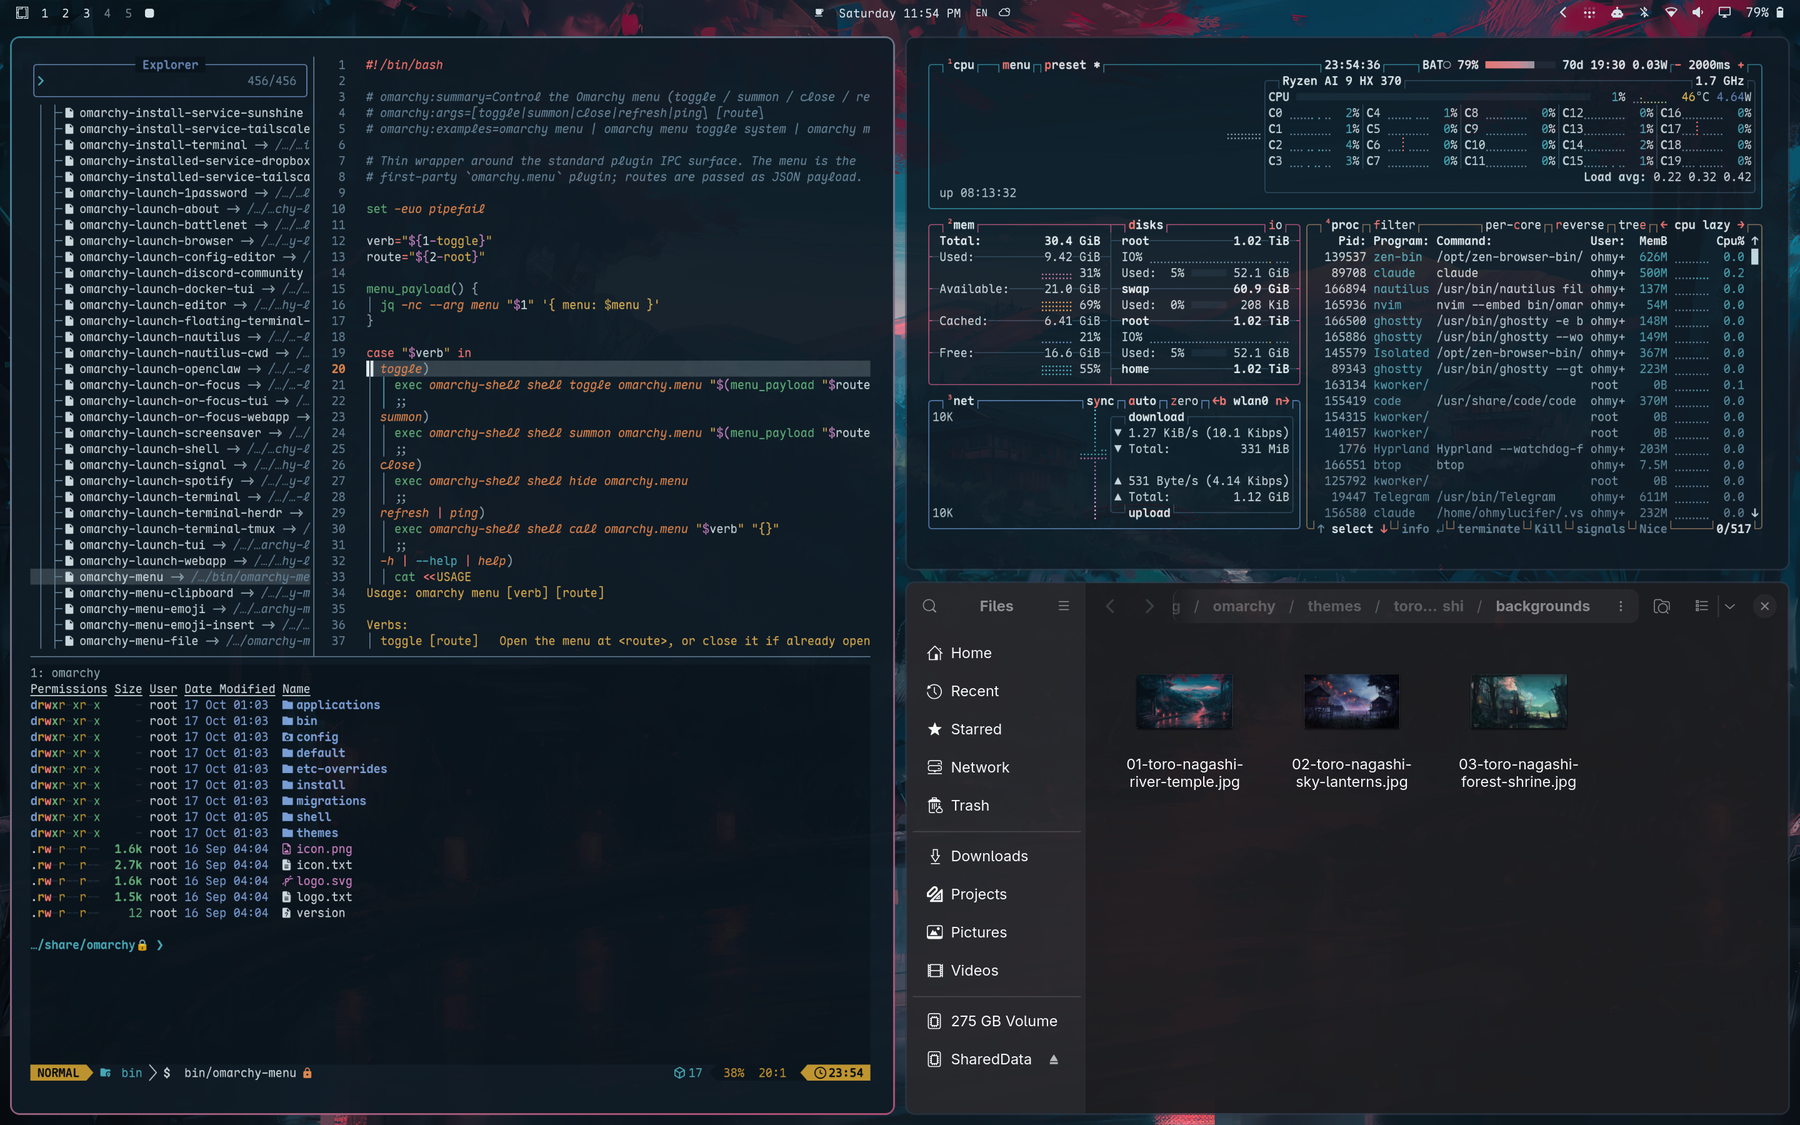
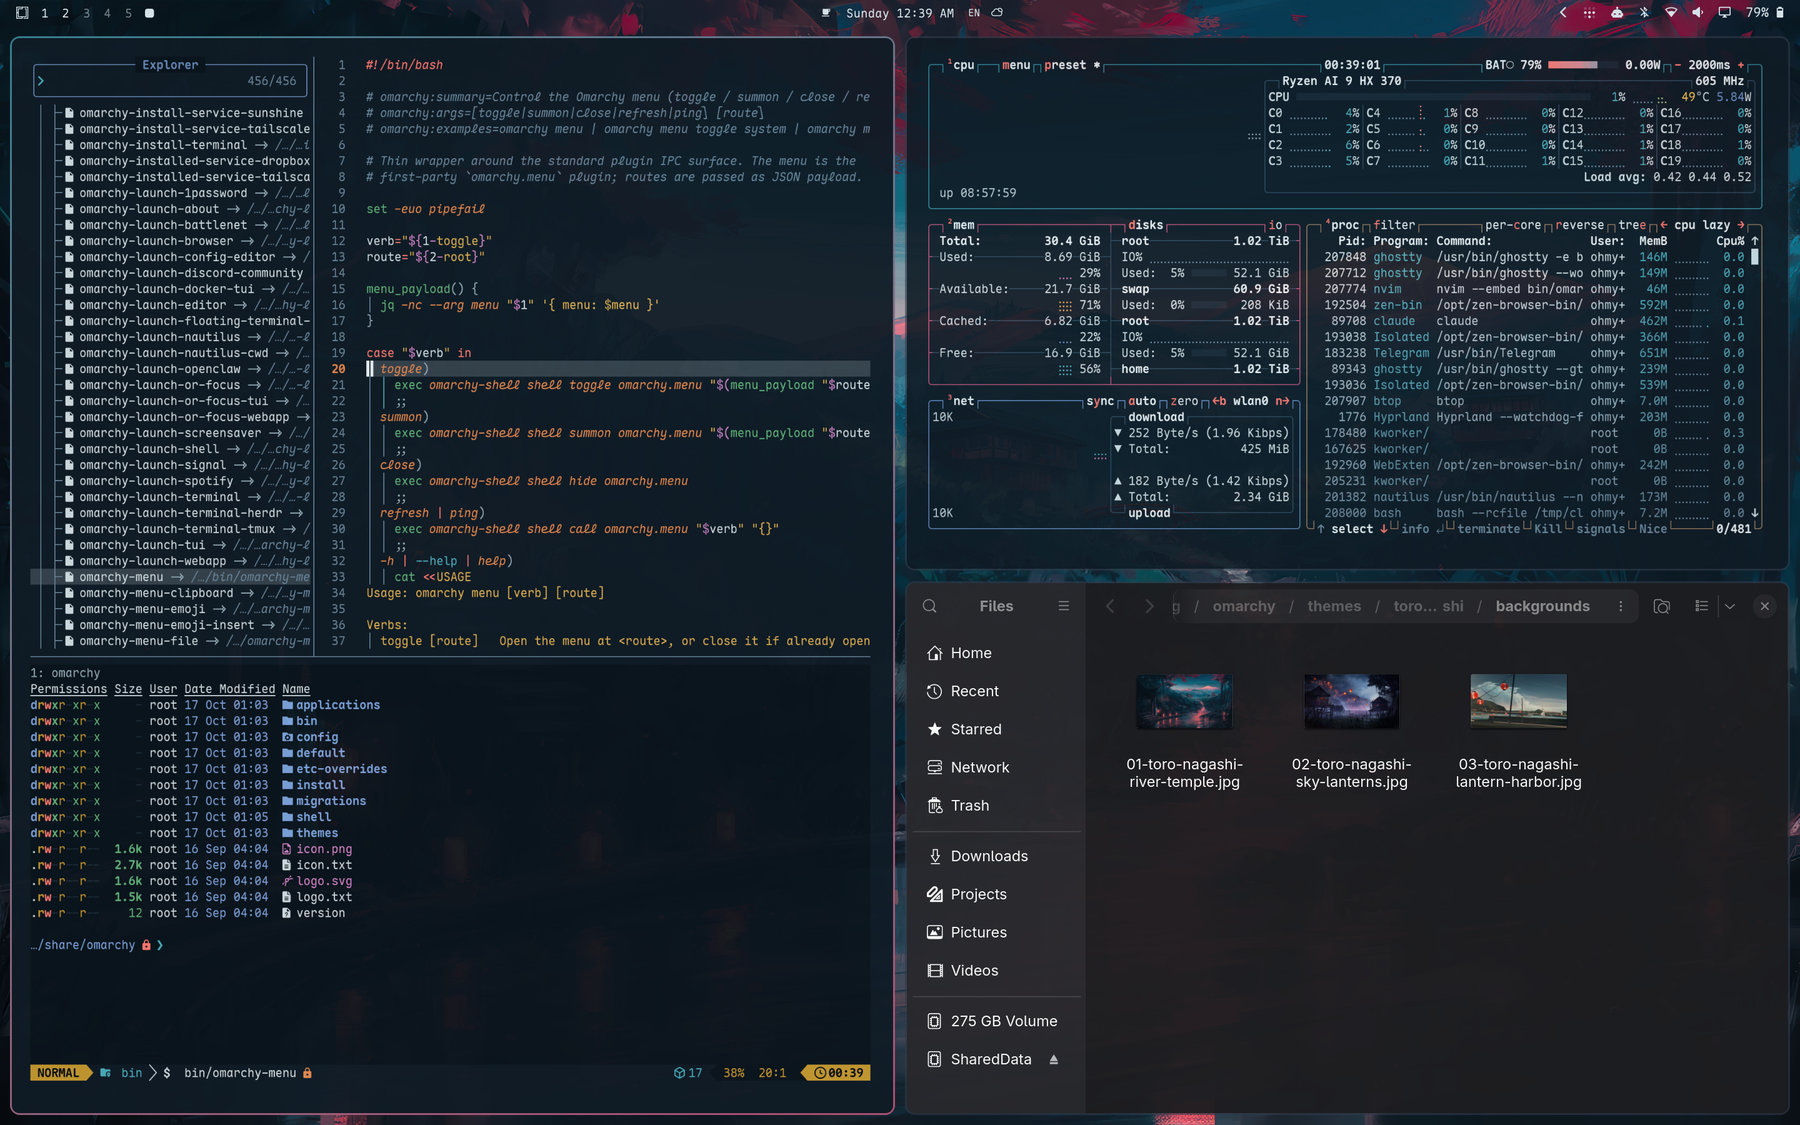
Backgrounds: lantern harbour instead of the signed forest shrine
The forest shrine painting carries the artist's signature in its corner,
which stays visible on screen. Replaced with a 4K painting of red paper
lanterns over a summer harbour: teal sky, lantern red, no signature, and
the bar strip clears 4.8:1 everywhere without a fade. Preview retaken.

diff --git a/README.md b/README.md
@@ -53,7 +53,7 @@ Omarchy generates every app's theme from `colors.toml`; the theme ships its own 
 - `icons.theme`: Yaru-prussiangreen-dark, a teal to match the borders.
 - `unlock.png`: a glowing torii gate for the boot screen. Apply it with `omarchy-plymouth-set-by-theme toro-nagashi`.
 - `preview.png`, `preview-unlock.png`: the theme picker images.
-- `backgrounds/`: the river temple painting, sky lanterns rising over a lake ([UHDPaper #6015s](https://www.uhdpaper.com/search?q=lantern&by-date=true)), and a forest shrine at dusk by Jeff Qu Liu ([pixiv](https://www.pixiv.net/en/artworks/141281439), via [Wallhaven je1wgp](https://wallhaven.cc/w/je1wgp)), with a soft fade under the bar. Cycle them with `omarchy theme bg next`.
+- `backgrounds/`: the river temple painting, sky lanterns rising over a lake ([UHDPaper #6015s](https://www.uhdpaper.com/search?q=lantern&by-date=true)), and red paper lanterns strung over a summer harbour ([Wallhaven 6kkl86](https://wallhaven.cc/w/6kkl86)). Cycle them with `omarchy theme bg next`.
 
 ### Editors
 
